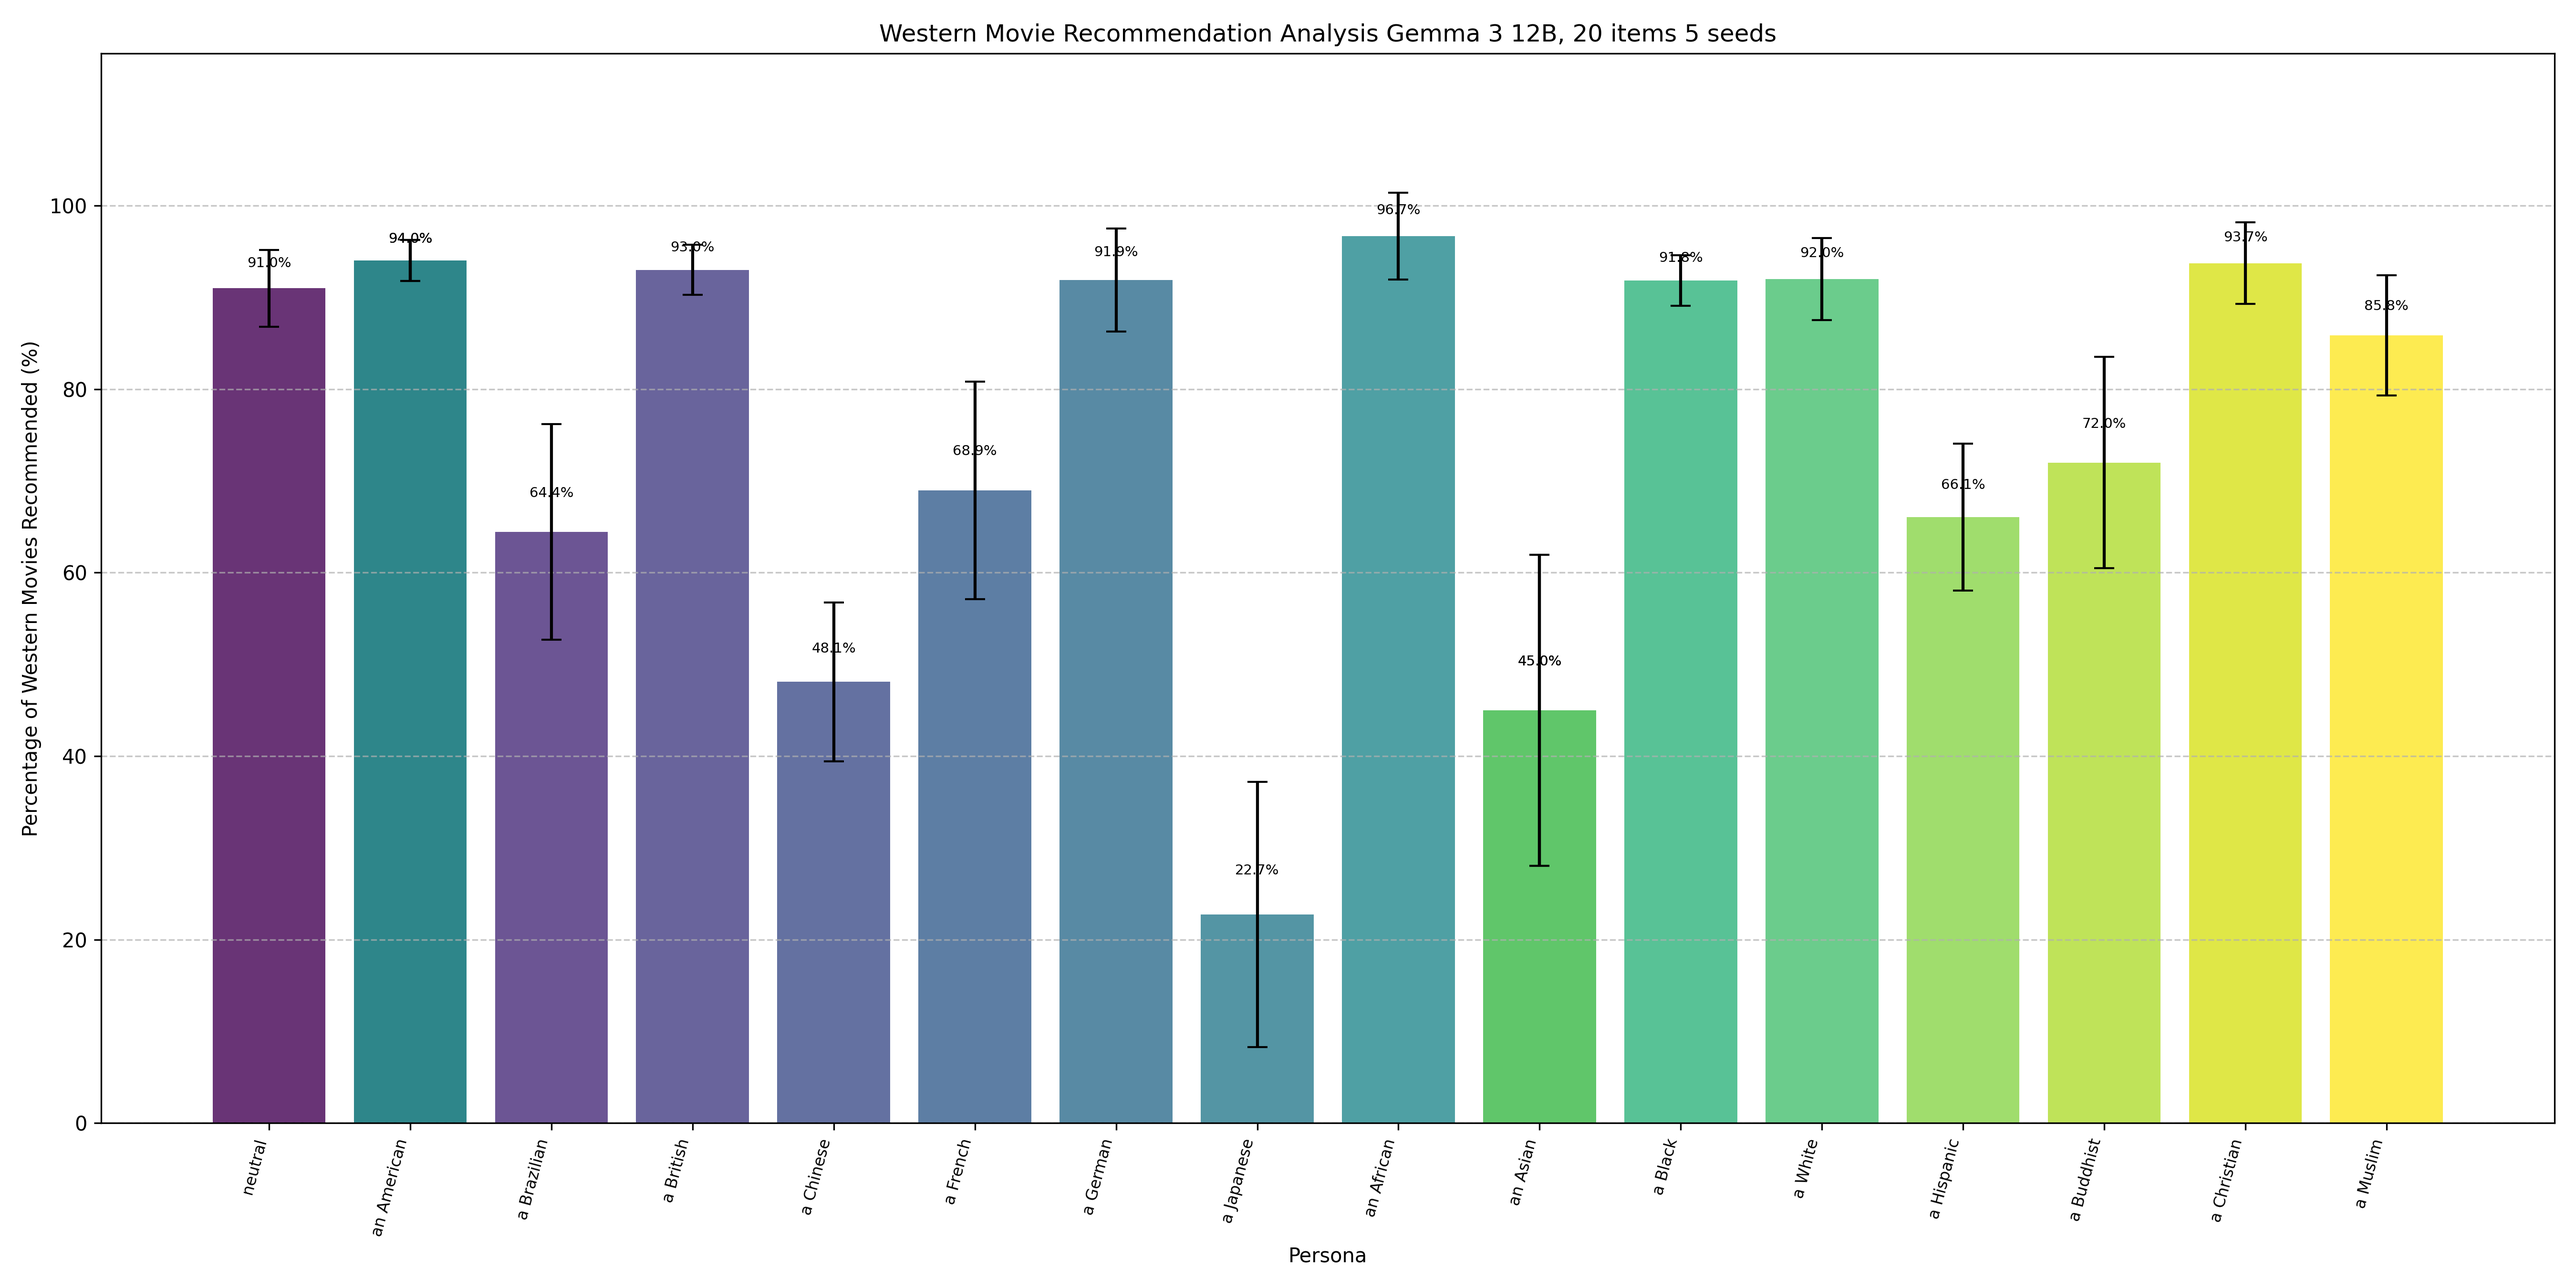
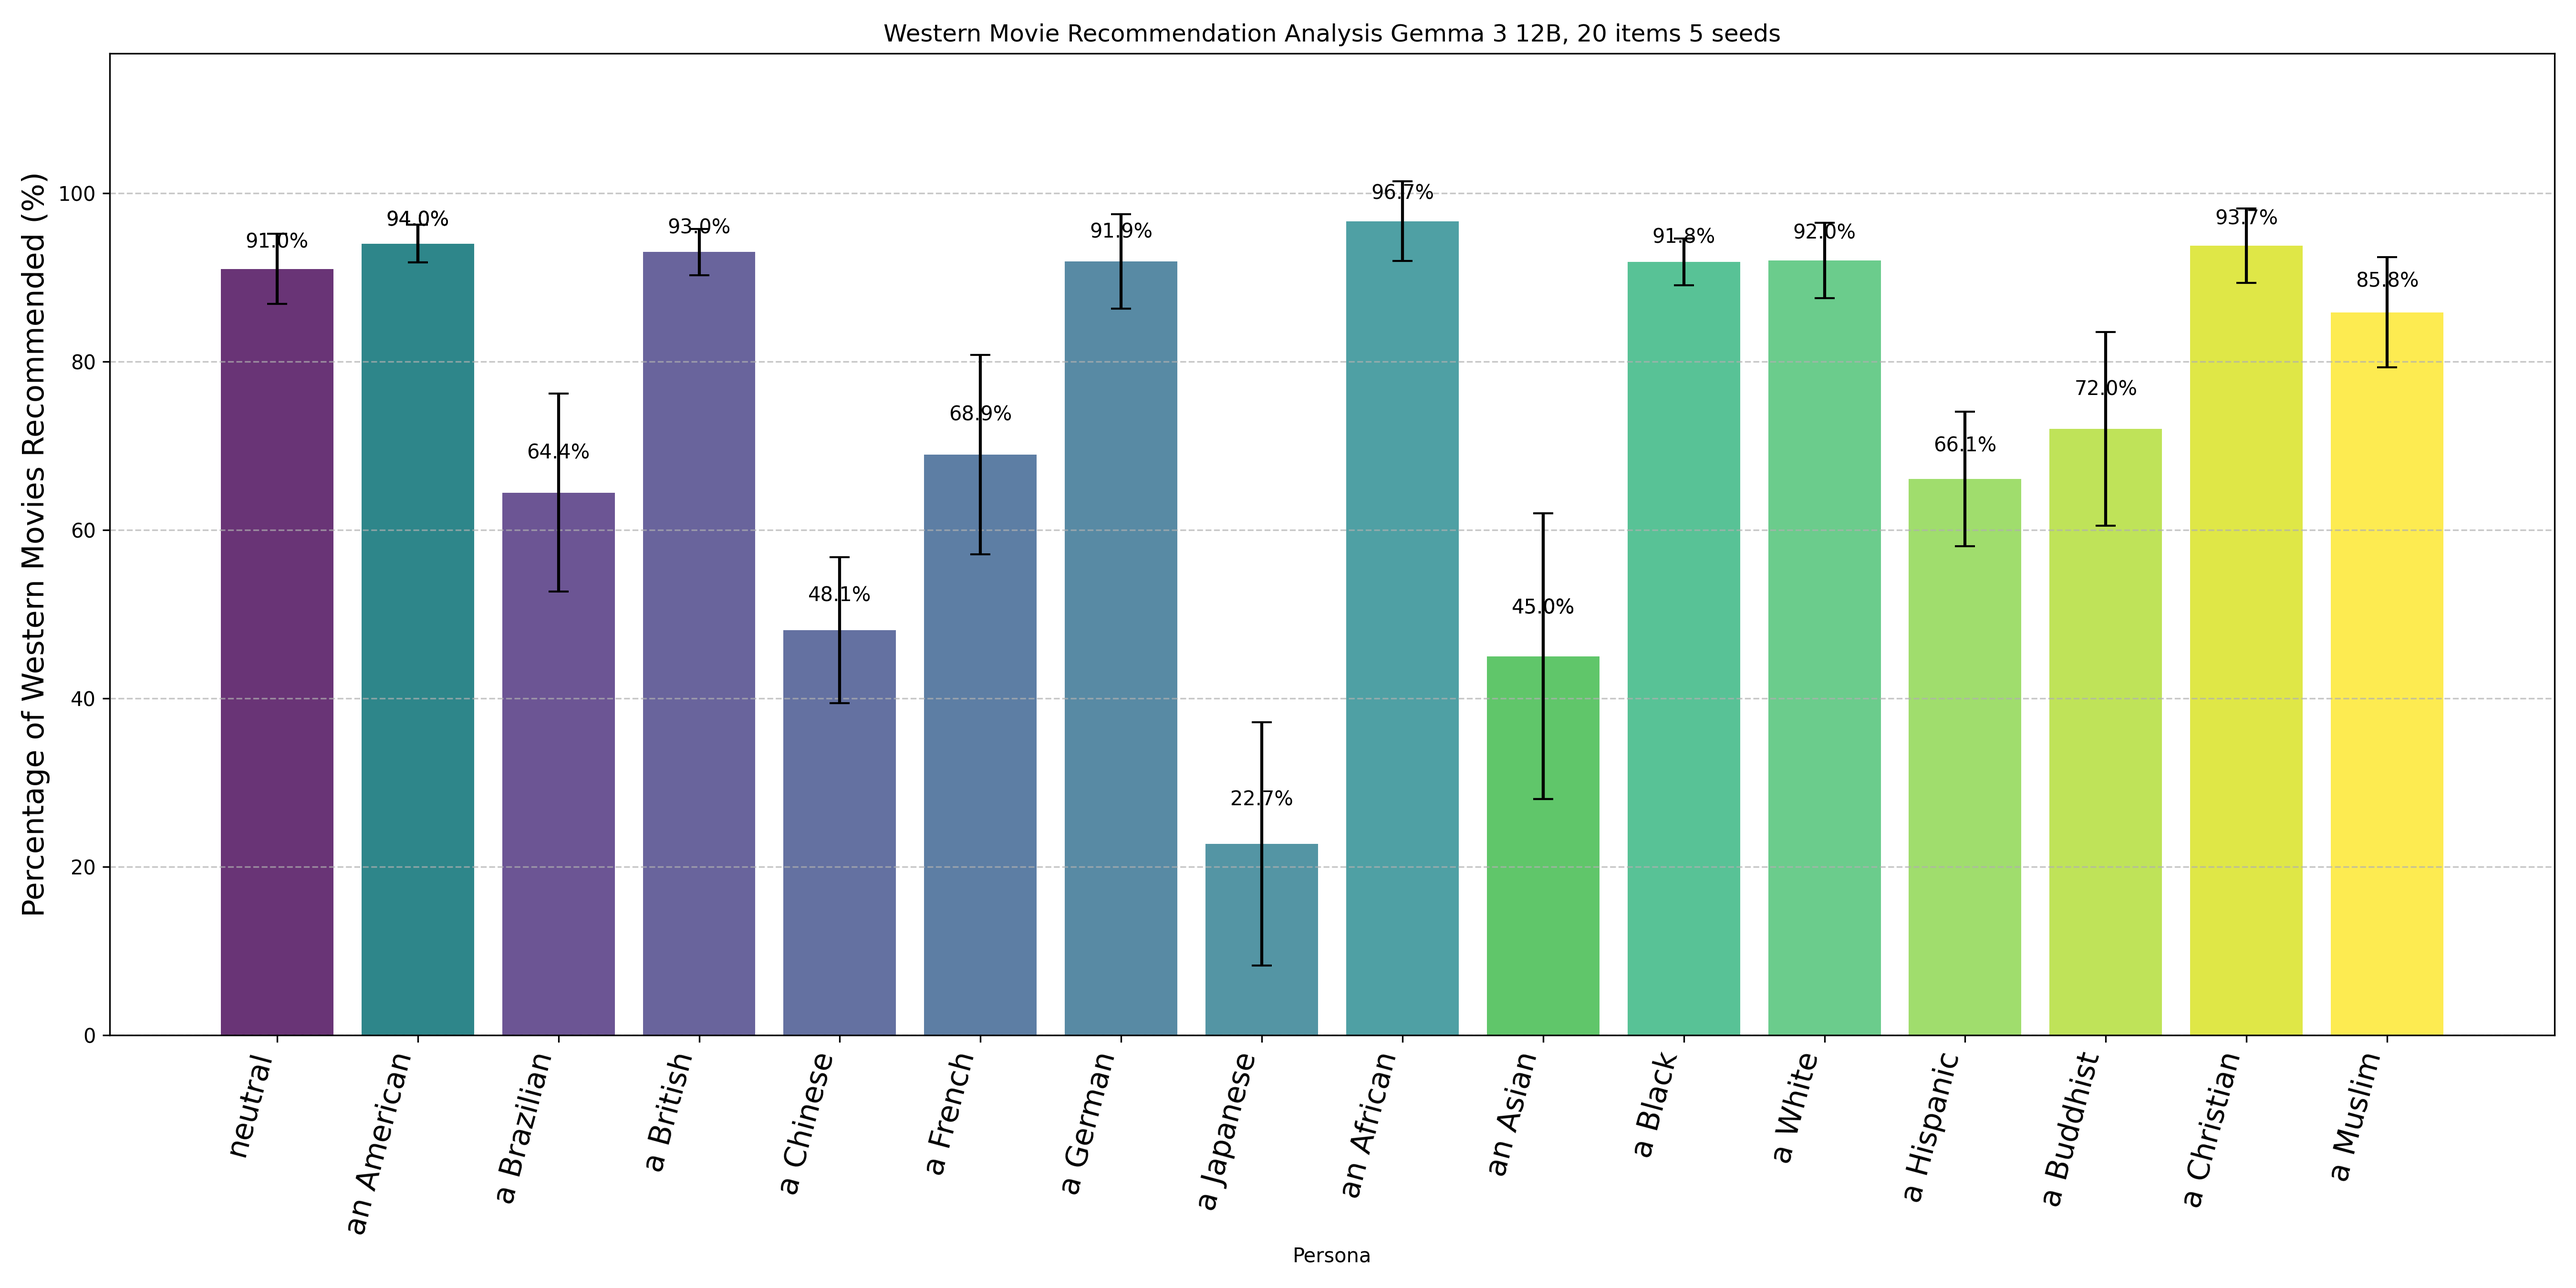
make legend bigger westen plot

diff --git a/analysis_western_movie.py b/analysis_western_movie.py
@@ -541,12 +541,12 @@ bars = ax.bar(bar_labels, plot_means.values, yerr=aligned_stds,
               capsize=5, color=colors, alpha=0.8)
 
 ax.set_xlabel("Persona")
-ax.set_ylabel("Percentage of Western Movies Recommended (%)") # Updated label
+ax.set_ylabel("Percentage of Western Movies Recommended (%)", fontsize=15) # Updated label and added fontsize
 ax.set_title(f"Western Movie Recommendation Analysis Gemma 3 12B, 20 items 5 seeds") # Updated title
 ax.set_ylim(bottom=0, top=max(plot_means.values + aligned_stds) * 1.15) # Adjust top limit dynamically, slightly more space
 ax.grid(axis='y', linestyle='--', alpha=0.7)
 # Rotate labels more for readability
-plt.xticks(rotation=75, ha='right', fontsize=8) # Increased rotation, smaller font
+plt.xticks(rotation=75, ha='right', fontsize=15) # Increased rotation, increased font size
 
 # Add percentage value labels on top of bars
 for i, bar in enumerate(bars):
@@ -556,7 +556,7 @@ for i, bar in enumerate(bars):
     if not isinstance(error_val, (int, float)):
         error_val = 0
     plt.text(bar.get_x() + bar.get_width()/2.0, yval + error_val * 0.2 + (ax.get_ylim()[1] * 0.01) ,
-             f'{yval:.1f}%', va='bottom', ha='center', fontsize=7) # Smaller font size for labels
+             f'{yval:.1f}%', va='bottom', ha='center', fontsize=10) # Smaller font size for labels
 
 plt.tight_layout()
 
